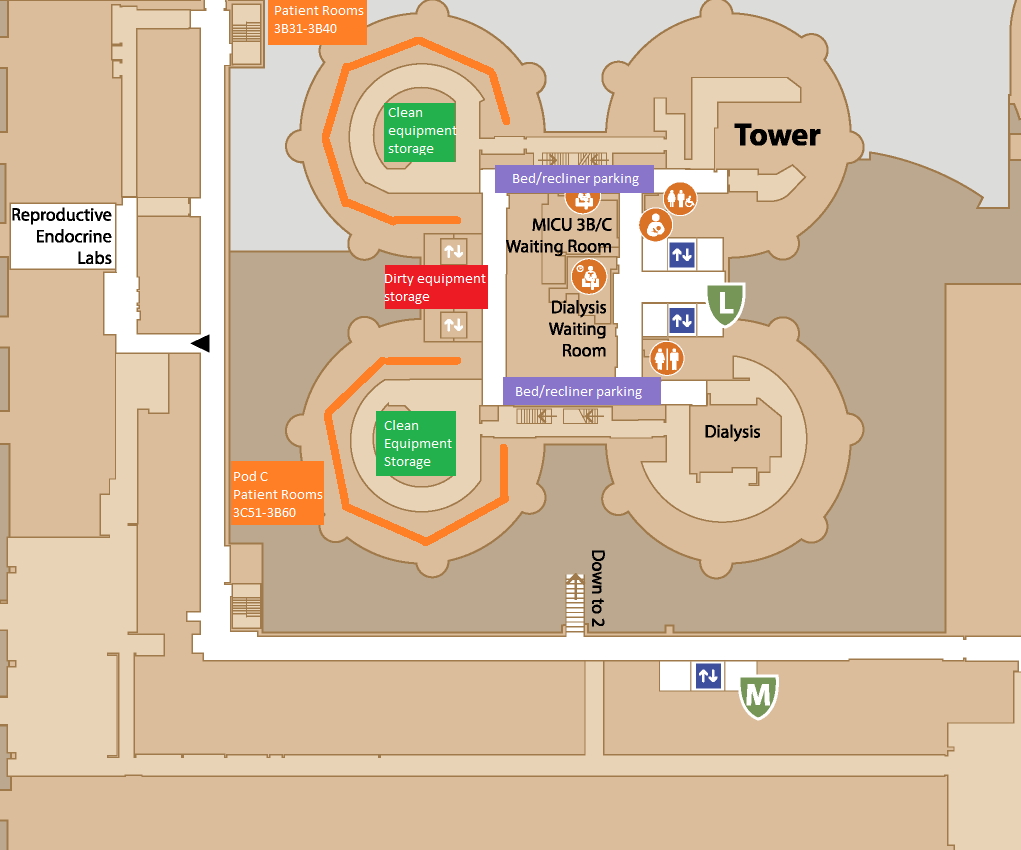
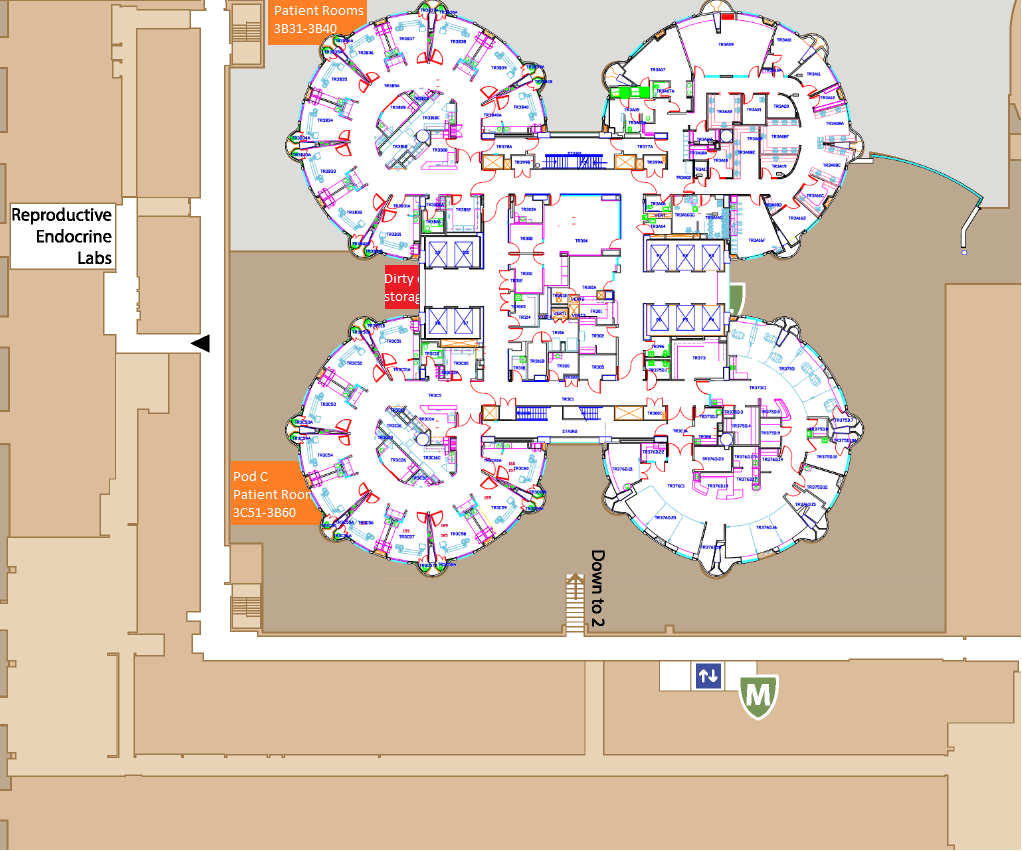
update floor maps, add 4-5

diff --git a/src/main/java/edu/wpi/cs3733/D22/teamZ/controllers/LocationListController.java b/src/main/java/edu/wpi/cs3733/D22/teamZ/controllers/LocationListController.java
@@ -183,12 +183,16 @@ public class LocationListController implements IMenuAccess {
     changeFloor.getItems().add("1");
     changeFloor.getItems().add("2");
     changeFloor.getItems().add("3");
+    changeFloor.getItems().add("4");
+    changeFloor.getItems().add("5");
 
     floorField.getItems().add("L2");
     floorField.getItems().add("L1");
     floorField.getItems().add("1");
     floorField.getItems().add("2");
     floorField.getItems().add("3");
+    floorField.getItems().add("4");
+    floorField.getItems().add("5");
 
     // floorLocations.remove(0, floorLocations.size());
 
